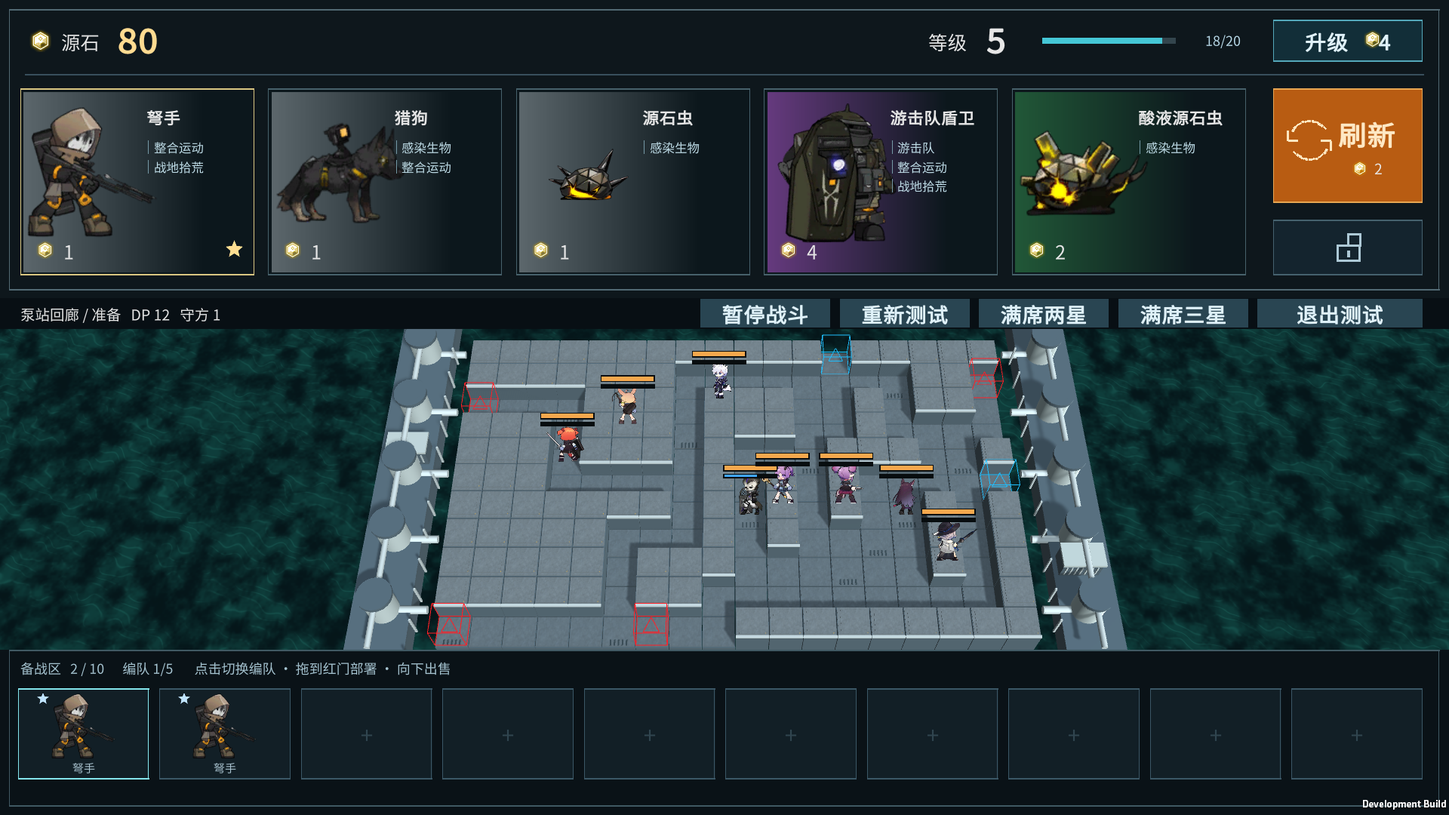
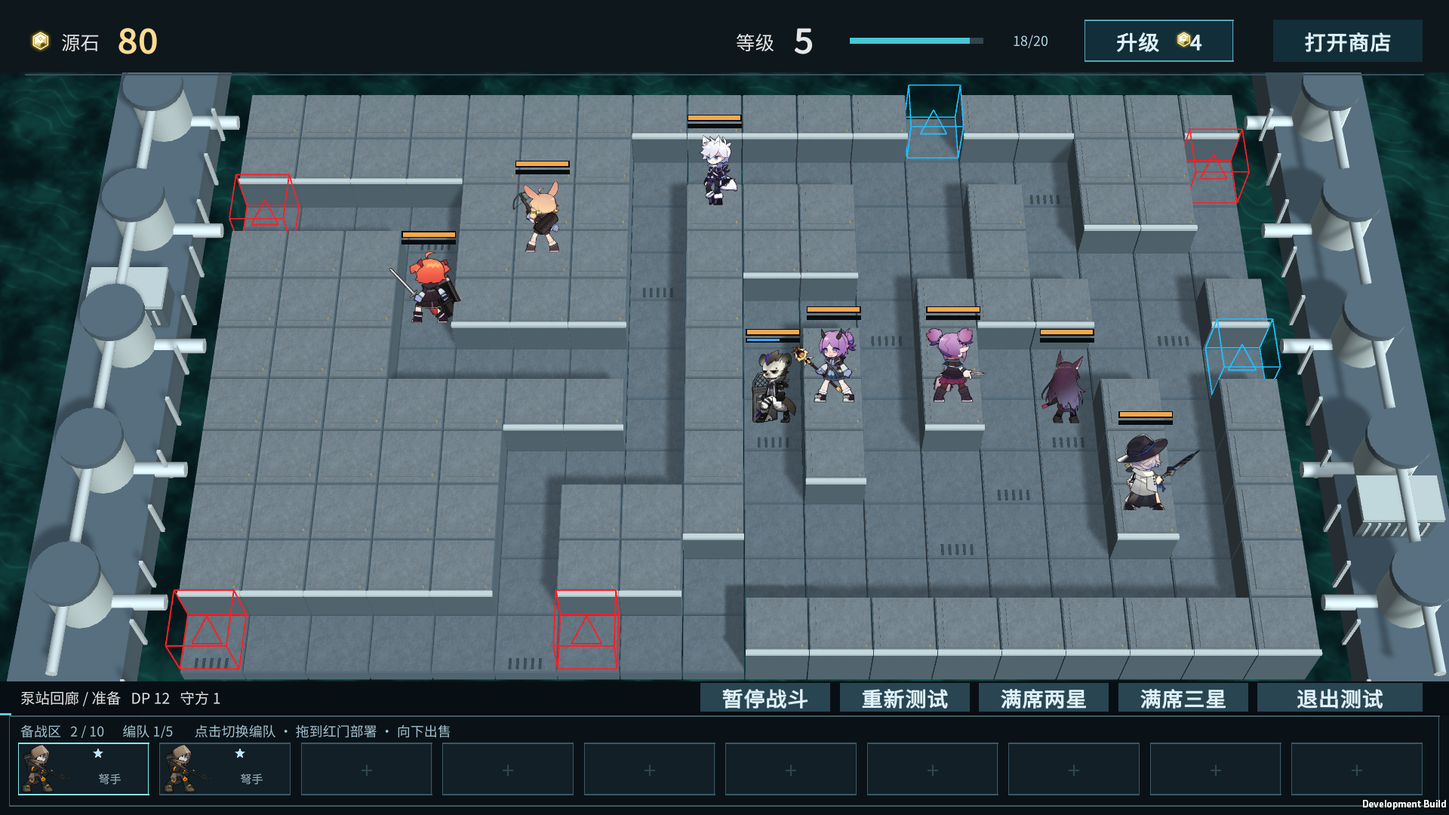
Make shop an overlay and flatten bench around a full-height map

diff --git a/Assets/_Game/Runtime/ShopMapTrial.cs b/Assets/_Game/Runtime/ShopMapTrial.cs
@@ -21,15 +21,23 @@ namespace YesterdayConvoy
         string shopPromotionId,shopMessage;
         Vector2 shopDragStart,shopPointer;
         float shopPromotionAt=-100,shopMessageUntil,shopRefreshAt=-100,shopUpgradeAt=-100;
-        bool shopMoving;
+        bool shopMoving,shopVisible;
         Texture2D shopCoin,shopStar,shopFade;
         public bool ShopTrialActive=>shop!=null;
         public ShopTrialModel Shop=>shop;
         public string ShopFeedback=>shopMessage;
-        public static Rect ShopBattlefieldRect=>new Rect(0,290,1280,284);
-        public static Rect ShopSellRect=>new Rect(16,672,1248,42);
+        public bool ShopVisible=>shopVisible;
+        public static Rect ShopBattlefieldRect=>new Rect(0,64,1280,538);
+        public static Rect ShopPanelRect=>new Rect(0,64,1280,199);
+        public static Rect ShopSellRect=>new Rect(16,688,1248,30);
         public static Rect ShopOfferRect(int i)=>new Rect(18+i*219,78,207,165);
-        public static Rect ShopBenchRect(int i)=>new Rect(16+i*125,608,116,80);
+        public static Rect ShopBenchRect(int i)=>new Rect(16+i*125,656,116,46);
+        public bool ShopMapPointAvailable(Vector2 point)=>ShopBattlefieldRect.Contains(point)&&(!shopVisible||!ShopPanelRect.Contains(point));
+        public void SetShopVisible(bool visible)
+        {
+            if(shop==null)return;
+            CancelShopDrag();shopVisible=visible;
+        }
 
         public void EnterShopTrial(int preset=0)
         {
@@ -48,7 +56,7 @@ namespace YesterdayConvoy
             string[] offerIds={"CARD_M08","CARD_M02",OriginalSlugArt.CardId,"CARD_M18","CARD_M05"};
             shop.Preset(pieces,offerIds.Where(shopDefinitions.ContainsKey),preset==2?7:5,preset==2?46:18);
             shopLineup.Clear();shopDeck.Clear();shopLineup.Add("CARD_M08");
-            shopDrag=-1;shopMoving=false;shopPending=-1;shopPromotionAt=-100;
+            shopDrag=-1;shopMoving=false;shopPending=-1;shopPromotionAt=-100;shopVisible=preset>0;
             if(shopMapCopy!=null)Destroy(shopMapCopy);
             shopMapCopy=Instantiate(Resources.Load<DefenderTrialDefinition>("MapTrials/city"));
             shopMapCopy.mapTitle="泵站回廊 · 商店试玩";
@@ -66,7 +74,7 @@ namespace YesterdayConvoy
             EnterDefense(shopMapCopy);
             shopMapCameraPosition=Camera.main.transform.position;
             SyncShopDeck();
-            ShopNotice(preset==0?"点击商店招募；备战棋子拖到红门部署，向下拖出售":"满席测试：购买第一张弩手，确认后合成并腾出空位");
+            ShopNotice(preset==0?"Tab 打开商店；备战棋子拖到红门部署，向下拖出售":"满席测试：购买第一张弩手，确认后合成并腾出空位");
         }
         void SyncShopDeck(bool autoFill=true)
         {
@@ -78,7 +86,7 @@ namespace YesterdayConvoy
             var effective=shopDeck.Count>0?shopDeck:new List<ManualBattleDefinition>{shopDefinitions["CARD_M08"]};
             defenderTrial.battle=effective[0];defenderTrial.rosterCards=effective.Skip(1).ToArray();definition=effective[0];
             ClearViews();Battle=CreateBattle();selectedRosterIndex=0;Selected=false;CancelInteraction();EnableCombatView();
-            Camera.main.rect=new Rect(0,.20f,1,.3972f);
+            Camera.main.rect=new Rect(0,118/720f,1,538/720f);
             FrameShopMap();
         }
         IEnumerable<Vector3> ShopMapPlayablePoints()
@@ -135,14 +143,14 @@ namespace YesterdayConvoy
             if(type==EventType.MouseDown&&button==0)
             {
                 for(int i=0;i<shop.Bench.Count;i++)if(ShopBenchRect(i).Contains(point)){shopDrag=shop.Bench[i].Instance;shopDragStart=point;shopMoving=false;return true;}
-                if(ShopBattlefieldRect.Contains(point))ProcessPointerDown(ScreenPosition(point));
+                if(ShopMapPointAvailable(point))ProcessPointerDown(ScreenPosition(point));
             }
-            if(type==EventType.MouseDrag&&shopDrag>=0){shopMoving|=(point-shopDragStart).magnitude>8;return true;}
+            if(type==EventType.MouseDrag&&shopDrag>=0){shopMoving|=(point-shopDragStart).magnitude>8;if(shopMoving)shopVisible=false;return true;}
             if(type!=EventType.MouseUp||button!=0||shopDrag<0)return false;
             int instance=shopDrag;bool moved=shopMoving;shopDrag=-1;shopMoving=false;
             var piece=shop.Bench.FirstOrDefault(p=>p.Instance==instance);if(piece==null)return true;
-            if(moved&&ShopSellRect.Contains(point)&&point.y>shopDragStart.y+22){SellShopCard(instance);return true;}
-            if(moved&&ShopBattlefieldRect.Contains(point))
+            if(moved&&ShopSellRect.Contains(point)&&point.y>shopDragStart.y+12){SellShopCard(instance);return true;}
+            if(moved&&ShopMapPointAvailable(point))
             {
                 int index=shopLineup.IndexOf(piece.Id);
                 if(index<0){ShopNotice("编队位已满：点击备战棋子调整编队，或先升级");return true;}
@@ -171,18 +179,30 @@ namespace YesterdayConvoy
             var shopButton=new GUIStyle(buttonStyle);
             foreach(var state in new[]{shopButton.normal,shopButton.hover,shopButton.active,shopButton.focused})state.textColor=new Color(.88f,.95f,.98f);
             bool prep=Battle.Phase==BattlePhase.Ready&&shopPending<0;
-            Fill(new Rect(0,0,1280,263),new Color(.055f,.09f,.11f,.99f));ShopBorder(new Rect(8,8,1264,248),new Color(.32f,.41f,.45f),1);
+            DrawShopDefenderBars();
+            foreach(var unit in Battle.Units)
+            {
+                if(!unit.Active)continue;Vector2 health=GUIPosition(Camera.main.WorldToScreenPoint(unit.Motion.Position+Camera.main.transform.up*UnitVisualHeight(unit)));
+                Fill(new Rect(health.x-26,health.y,52,5),new Color(.03f,.05f,.06f));Fill(new Rect(health.x-25,health.y+1,50*unit.Health/unit.MaxHealth,3),new Color(.4f,.9f,.55f));
+            }
+            Fill(new Rect(0,0,1280,64),new Color(.055f,.09f,.11f,.97f));
             Fill(new Rect(22,65,1236,1),new Color(.22f,.31f,.36f));
             GUI.DrawTexture(new Rect(25,25,22,22),shopCoin,ScaleMode.ScaleToFit,true);
             GUI.Label(new Rect(54,17,58,38),"源石",label);
             GUI.Label(new Rect(105,12,170,44),shop.Gold.ToString(),new GUIStyle(title){fontSize=29,normal={textColor=new Color(1,.86f,.57f)}});
-            GUI.Label(new Rect(820,17,55,38),"等级",label);GUI.Label(new Rect(872,12,50,44),shop.Level.ToString(),new GUIStyle(title){fontSize=29});
-            Fill(new Rect(921,33,118,5),new Color(.20f,.27f,.30f));Fill(new Rect(921,33,118*(shop.Level==10?1:(float)shop.XP/ShopTrialModel.Experience[shop.Level]),5),new Color(.27f,.78f,.84f));
-            GUI.Label(new Rect(1048,18,65,34),shop.Level==10?"MAX":$"{shop.XP}/{ShopTrialModel.Experience[shop.Level]}",new GUIStyle(center){fontSize=12,normal={textColor=new Color(.72f,.85f,.91f)}});
+            GUI.Label(new Rect(650,17,55,38),"等级",label);GUI.Label(new Rect(702,12,50,44),shop.Level.ToString(),new GUIStyle(title){fontSize=29});
+            Fill(new Rect(751,33,118,5),new Color(.20f,.27f,.30f));Fill(new Rect(751,33,118*(shop.Level==10?1:(float)shop.XP/ShopTrialModel.Experience[shop.Level]),5),new Color(.27f,.78f,.84f));
+            GUI.Label(new Rect(878,18,65,34),shop.Level==10?"MAX":$"{shop.XP}/{ShopTrialModel.Experience[shop.Level]}",new GUIStyle(center){fontSize=12,normal={textColor=new Color(.72f,.85f,.91f)}});
             GUI.enabled=prep;
             GUI.backgroundColor=new Color(.07f,.18f,.22f);
-            if(GUI.Button(new Rect(1125,17,132,37),"升级     4",shopButton)){var r=shop.Upgrade();if(r.Success){shopUpgradeAt=Time.unscaledTime;SyncShopDeck();}ShopNotice(r.Message);}
-            ShopBorder(new Rect(1125,17,132,37),new Color(.33f,.66f,.73f),1);GUI.DrawTexture(new Rect(1204,26,18,18),shopCoin,ScaleMode.ScaleToFit,true);
+            if(GUI.Button(new Rect(958,17,132,37),"升级     4",shopButton)){var r=shop.Upgrade();if(r.Success){shopUpgradeAt=Time.unscaledTime;SyncShopDeck();}ShopNotice(r.Message);}
+            ShopBorder(new Rect(958,17,132,37),new Color(.33f,.66f,.73f),1);GUI.DrawTexture(new Rect(1037,26,18,18),shopCoin,ScaleMode.ScaleToFit,true);
+            GUI.enabled=shopPending<0;
+            if(GUI.Button(new Rect(1125,17,132,37),new GUIContent(shopVisible?"收起商店":"打开商店","Tab 切换商店"),shopButton))SetShopVisible(!shopVisible);
+            if(shopVisible)
+            {
+            Fill(ShopPanelRect,new Color(.055f,.09f,.11f,.96f));ShopBorder(new Rect(8,65,1264,191),new Color(.32f,.41f,.45f),1);
+            GUI.enabled=prep;
             var refreshRect=new Rect(1125,78,132,101);GUI.backgroundColor=new Color(.72f,.36f,.07f);
             if(GUI.Button(refreshRect,GUIContent.none,shopButton)){var r=shop.Refresh();if(r.Success)shopRefreshAt=Time.unscaledTime;ShopNotice(r.Message);}
             ShopBorder(refreshRect,new Color(.91f,.65f,.32f),1);DrawShopRefreshIcon(new Vector2(1157,124),new Color(1,.90f,.75f));
@@ -206,17 +226,20 @@ namespace YesterdayConvoy
                 GUI.enabled=prep&&shop.Gold>=role.Cost&&shopPending<0;
                 if(GUI.Button(r,GUIContent.none,GUIStyle.none))PurchaseShopCard(i);GUI.enabled=shopPending<0;
             }
-            Fill(new Rect(0,263,1280,27),new Color(.03f,.06f,.08f,.94f));
-            GUI.Label(new Rect(18,263,550,27),$"泵站回廊 / {(Battle.Phase==BattlePhase.Ready?"准备":"战斗中 · 商店锁定")}   DP {Battle.DP}   守方 {Battle.Defense}",new GUIStyle(label){fontSize=13});
-            if(GUI.Button(new Rect(619,264,115,25),Battle.IsPaused?"继续战斗":"暂停战斗",shopButton)&&Battle.Phase==BattlePhase.Running)Battle.SetPaused(!Battle.IsPaused);
-            if(GUI.Button(new Rect(742,264,115,25),"重新测试",shopButton))EnterShopTrial();
+            }
+            GUI.enabled=shopPending<0;
+            GUI.backgroundColor=new Color(.16f,.27f,.32f);
+            Fill(new Rect(0,602,1280,28),new Color(.03f,.06f,.08f,.94f));
+            GUI.Label(new Rect(18,602,550,27),$"泵站回廊 / {(Battle.Phase==BattlePhase.Ready?"准备":"战斗中 · 商店锁定")}   DP {Battle.DP}   守方 {Battle.Defense}",new GUIStyle(label){fontSize=13});
+            if(GUI.Button(new Rect(619,603,115,25),Battle.IsPaused?"继续战斗":"暂停战斗",shopButton)&&Battle.Phase==BattlePhase.Running)Battle.SetPaused(!Battle.IsPaused);
+            if(GUI.Button(new Rect(742,603,115,25),"重新测试",shopButton))EnterShopTrial();
             GUI.enabled=prep;
-            if(GUI.Button(new Rect(865,264,115,25),"满席两星",shopButton))EnterShopTrial(1);
-            if(GUI.Button(new Rect(988,264,115,25),"满席三星",shopButton))EnterShopTrial(2);GUI.enabled=shopPending<0;
-            if(GUI.Button(new Rect(1111,264,146,25),"退出测试",shopButton)){LeaveShopTrial();GUI.matrix=previous;GUI.color=old;GUI.backgroundColor=background;return;}GUI.enabled=true;
-            Fill(new Rect(0,574,1280,146),new Color(.04f,.07f,.09f,.98f));
-            ShopBorder(new Rect(8,574,1264,138),new Color(.25f,.35f,.39f),1);
-            GUI.Label(new Rect(18,578,1240,26),$"备战区   {shop.Bench.Count} / 10      编队 {shopLineup.Count}/{shop.Level}       点击切换编队 · 拖到红门部署 · 向下出售",new GUIStyle(smallStyle){fontSize=12,normal={textColor=new Color(.65f,.77f,.82f)}});
+            if(GUI.Button(new Rect(865,603,115,25),"满席两星",shopButton))EnterShopTrial(1);
+            if(GUI.Button(new Rect(988,603,115,25),"满席三星",shopButton))EnterShopTrial(2);GUI.enabled=shopPending<0;
+            if(GUI.Button(new Rect(1111,603,146,25),"退出测试",shopButton)){LeaveShopTrial();GUI.matrix=previous;GUI.color=old;GUI.backgroundColor=background;return;}GUI.enabled=true;
+            Fill(new Rect(0,632,1280,88),new Color(.04f,.07f,.09f,.98f));
+            ShopBorder(new Rect(8,632,1264,80),new Color(.25f,.35f,.39f),1);
+            GUI.Label(new Rect(18,633,1240,21),$"备战区   {shop.Bench.Count} / 10      编队 {shopLineup.Count}/{shop.Level}       点击切换编队 · 拖到红门部署 · 向下出售",new GUIStyle(smallStyle){fontSize=12,normal={textColor=new Color(.65f,.77f,.82f)}});
             for(int i=0;i<10;i++)
             {
                 var r=ShopBenchRect(i);Fill(r,new Color(.07f,.12f,.15f));ShopBorder(r,new Color(.23f,.34f,.40f),1);
@@ -224,22 +247,16 @@ namespace YesterdayConvoy
                 var p=shop.Bench[i];if(p.Star>1)Fill(new Rect(r.x+1,r.y+1,r.width-2,r.height-2),p.Star==3?new Color(.28f,.24f,.15f):new Color(.17f,.23f,.28f));
                 bool active=shopLineup.Contains(p.Id)&&shop.Bench.Where(b=>b.Id==p.Id).OrderByDescending(b=>b.Star).ThenBy(b=>b.Instance).First().Instance==p.Instance;
                 if(active||p.Star>1)ShopBorder(r,active?new Color(.52f,.90f,.93f):p.Star==3?new Color(.89f,.74f,.38f):new Color(.66f,.72f,.81f),1);
-                DrawTestPortrait(new Rect(r.x+6,r.y+4,104,59),OriginalTalulahArt.CardPortrait(shopDefinitions[p.Id].Card));
-                DrawShopStars(new Rect(r.x+4,r.y+3,36,12),p.Star,p.Star==3?new Color(1,.89f,.61f):new Color(.75f,.89f,1));
-                GUI.Label(new Rect(r.x+2,r.y+60,112,19),shop.Definition(p.Id).Name,new GUIStyle(center){fontSize=10,normal={textColor=new Color(.67f,.77f,.82f)}});
+                DrawTestPortrait(new Rect(r.x+2,r.y+1,46,44),OriginalTalulahArt.CardPortrait(shopDefinitions[p.Id].Card));
+                DrawShopStars(new Rect(r.x+53,r.y+4,36,11),p.Star,p.Star==3?new Color(1,.89f,.61f):new Color(.75f,.89f,1));
+                GUI.Label(new Rect(r.x+49,r.y+19,65,24),shop.Definition(p.Id).Name,new GUIStyle(center){fontSize=10,normal={textColor=new Color(.67f,.77f,.82f)}});
             }
             if(shopDrag>=0&&shopMoving)
             {
-                var q=shop.Quote(shopDrag);bool hit=ShopSellRect.Contains(point)&&point.y>shopDragStart.y+22;
+                var q=shop.Quote(shopDrag);bool hit=ShopSellRect.Contains(point)&&point.y>shopDragStart.y+12;
                 Fill(ShopSellRect,hit?new Color(.42f,.29f,.12f,.98f):new Color(.12f,.17f,.20f,.98f));ShopBorder(ShopSellRect,new Color(.85f,.69f,.36f),2);
                 GUI.Label(ShopSellRect,$"{(hit?"松开出售":"向下拖动出售")}   {q.Message} · {q.FinalStar}星   +{q.Value} 源石",center);
                 if(q.Success)DrawTestPortrait(new Rect(point.x-40,point.y-55,80,80),OriginalTalulahArt.CardPortrait(shopDefinitions[q.Id].Card));
-            }
-            DrawShopDefenderBars();
-            foreach(var unit in Battle.Units)
-            {
-                if(!unit.Active)continue;Vector2 health=GUIPosition(Camera.main.WorldToScreenPoint(unit.Motion.Position+Camera.main.transform.up*UnitVisualHeight(unit)));
-                Fill(new Rect(health.x-26,health.y,52,5),new Color(.03f,.05f,.06f));Fill(new Rect(health.x-25,health.y+1,50*unit.Health/unit.MaxHealth,3),new Color(.4f,.9f,.55f));
             }
             if(Battle.Phase==BattlePhase.Won||Battle.Phase==BattlePhase.Lost)GUI.Label(new Rect(450,450,380,45),Battle.Phase==BattlePhase.Won?"突破成功 · 可重新测试":"作战结束 · 可重新测试",title);
             DrawShopPromotion();

diff --git a/Assets/_Game/Runtime/ShopMapEvidence.cs b/Assets/_Game/Runtime/ShopMapEvidence.cs
@@ -16,10 +16,16 @@ namespace YesterdayConvoy
             Application.runInBackground=true;Time.timeScale=0;
             string[] args=Environment.GetCommandLineArgs();int arg=Array.IndexOf(args,"-demoEvidenceDir");string dir=arg>=0&&arg+1<args.Length?args[arg+1]:null;
             yield return null;yield return null;
-            bool layout=ShopTrialActive&&TacticalMapId=="city"&&ShopOfferRect(0).yMax<ShopBenchRect(0).y&&Camera.main.rect.height<.6f;
+            bool layout=ShopTrialActive&&TacticalMapId=="city"&&ShopOfferRect(0).yMax<ShopBenchRect(0).y&&Camera.main.rect.height>.7f;
             float magnification=Mathf.Tan(shopPreviousFieldOfView*.5f*Mathf.Deg2Rad)/Mathf.Tan(Camera.main.fieldOfView*.5f*Mathf.Deg2Rad);
-            bool framing=magnification>1.2f&&ShopMapPlayablePoints().All(p=>ShopBattlefieldRect.Contains(GUIPosition(Camera.main.WorldToScreenPoint(p))));
+            bool framing=ShopMapPlayablePoints().All(p=>ShopBattlefieldRect.Contains(GUIPosition(Camera.main.WorldToScreenPoint(p))));
+            bool flatBench=ShopBenchRect(0).height<60;
             yield return InteractionFrame(dir,"shop-map-ready");
+            var viewport=Camera.main.rect;float fov=Camera.main.fieldOfView;var position=Camera.main.transform.position;
+            int initialGold=Shop.Gold;var initialOffers=Shop.Offers.ToArray();
+            SetShopVisible(true);bool covered=!ShopMapPointAvailable(ShopOfferRect(0).center);
+            yield return InteractionFrame(dir,"shop-map-shop-open");SetShopVisible(false);
+            bool overlay=covered&&!ShopVisible&&ShopMapPointAvailable(ShopOfferRect(0).center)&&Camera.main.rect==viewport&&Camera.main.fieldOfView==fov&&Camera.main.transform.position==position&&Shop.Gold==initialGold&&Shop.Offers.SequenceEqual(initialOffers);
             EnterShopTrial(1);yield return null;yield return null;
             int gold=Shop.Gold;var denied=PurchaseShopCard(1);bool fullReject=!denied.Success&&!denied.NeedsConfirmation&&Shop.Gold==gold&&Shop.Bench.Count==10;
             var pending=PurchaseShopCard(0);bool fullConfirm=pending.NeedsConfirmation&&Shop.Gold==gold&&Shop.Bench.Count==10;
@@ -36,8 +42,10 @@ namespace YesterdayConvoy
             var origin=ShopBenchRect(0).center;
             ProcessShopPointer(EventType.MouseDown,origin);ProcessShopPointer(EventType.MouseDrag,ShopSellRect.center);ProcessShopPointer(EventType.MouseUp,origin);
             bool cancelSafe=Shop.Gold==gold-1&&Shop.Bench.Count==7;
-            ProcessShopPointer(EventType.MouseDown,origin);ProcessShopPointer(EventType.MouseDrag,ShopSellRect.center);
-            yield return InteractionFrame(dir,"shop-map-sell-preview");ProcessShopPointer(EventType.MouseUp,ShopSellRect.center);
+            origin=new Vector2(ShopBenchRect(0).center.x,ShopBenchRect(0).yMax-2);
+            Vector2 bottomSale=new Vector2(ShopSellRect.center.x,ShopSellRect.yMax-2);
+            ProcessShopPointer(EventType.MouseDown,origin);ProcessShopPointer(EventType.MouseDrag,bottomSale);
+            yield return InteractionFrame(dir,"shop-map-sell-preview");ProcessShopPointer(EventType.MouseUp,bottomSale);
             bool sale=Shop.Gold==gold+7&&Shop.Available("CARD_M08")==9&&!Shop.Bench.Any(p=>p.Instance==instance);
             EnterShopTrial();yield return null;yield return null;
             var offers=Shop.Offers.ToArray();var upgrade=Shop.Upgrade();SyncShopDeck();bool level=upgrade.Success&&Shop.Level==6&&Shop.XP==2&&offers.SequenceEqual(Shop.Offers);
@@ -51,8 +59,8 @@ namespace YesterdayConvoy
             bool simulation=Battle.Clock>0&&Battle.Units.Count==1&&Battle.Units[0].Motion.Position!=Battle.Entry;
             Shop.Validate();LeaveShopTrial();yield return null;yield return null;
             bool exit=TestSelectionOpen&&!ShopTrialActive&&!TacticalMapActive&&Camera.main.rect==new Rect(0,0,1,1);
-            bool pass=layout&&framing&&fullReject&&fullConfirm&&fullTwo&&fullThree&&cancelSafe&&sale&&level&&locked&&refresh&&gateVisible&&deployed&&frozen&&simulation&&exit;
-            Debug.Log($"SHOP_MAP_CHECK: layout={layout}; framing={framing}; magnification={magnification:0.00}; fullReject={fullReject}; fullConfirm={fullConfirm}; fullTwo={fullTwo}; fullThree={fullThree}; cancel={cancelSafe}; sale={sale}; level={level}; lock={locked}; refresh={refresh}; gateVisible={gateVisible}; deployed={deployed}; frozen={frozen}; simulation={simulation}; exit={exit}.");
+            bool pass=layout&&framing&&overlay&&flatBench&&fullReject&&fullConfirm&&fullTwo&&fullThree&&cancelSafe&&sale&&level&&locked&&refresh&&gateVisible&&deployed&&frozen&&simulation&&exit;
+            Debug.Log($"SHOP_MAP_CHECK: layout={layout}; framing={framing}; overlay={overlay}; flatBench={flatBench}; magnification={magnification:0.00}; fullReject={fullReject}; fullConfirm={fullConfirm}; fullTwo={fullTwo}; fullThree={fullThree}; cancel={cancelSafe}; sale={sale}; level={level}; lock={locked}; refresh={refresh}; gateVisible={gateVisible}; deployed={deployed}; frozen={frozen}; simulation={simulation}; exit={exit}.");
             Time.timeScale=1;Application.Quit(pass?0:1);
         }
     }

diff --git a/Assets/_Game/Tests/PlayMode/ShopMapSceneTests.cs b/Assets/_Game/Tests/PlayMode/ShopMapSceneTests.cs
@@ -9,6 +9,24 @@ namespace YesterdayConvoy.Tests
 {
     public sealed class ShopMapSceneTests
     {
+        [UnityTest]public IEnumerator ShopOverlayKeepsCameraAndInventoryStableAndBlocksCoveredMap()
+        {
+            yield return SceneManager.LoadSceneAsync("InitialDemo");yield return null;
+            var c=Object.FindAnyObjectByType<ManualBattleController>();c.EnterShopTrial();yield return null;yield return null;
+            Assert.That(c.ShopVisible,Is.False);Assert.That(ManualBattleController.ShopBenchRect(0).height,Is.LessThan(60));
+            Assert.That(ManualBattleController.ShopBattlefieldRect.height,Is.GreaterThan(500));
+            var viewport=Camera.main.rect;float fov=Camera.main.fieldOfView;var position=Camera.main.transform.position;
+            var offers=c.Shop.Offers.ToArray();int gold=c.Shop.Gold,count=c.Shop.Bench.Count;
+            Vector2 covered=ManualBattleController.ShopOfferRect(0).center;Assert.That(c.ShopMapPointAvailable(covered),Is.True);
+            c.SetShopVisible(true);Assert.That(c.ShopVisible,Is.True);Assert.That(c.ShopMapPointAvailable(covered),Is.False);
+            c.ProcessShopPointer(EventType.MouseDown,covered);Assert.That(c.Battle.Units.Count,Is.Zero);
+            c.SetShopVisible(false);Assert.That(c.ShopMapPointAvailable(covered),Is.True);
+            Assert.That(Camera.main.rect,Is.EqualTo(viewport));Assert.That(Camera.main.fieldOfView,Is.EqualTo(fov));Assert.That(Camera.main.transform.position,Is.EqualTo(position));
+            Assert.That(c.Shop.Gold,Is.EqualTo(gold));Assert.That(c.Shop.Bench.Count,Is.EqualTo(count));CollectionAssert.AreEqual(offers,c.Shop.Offers);
+            c.EnterShopTrial(1);Assert.That(c.PurchaseShopCard(0).NeedsConfirmation,Is.True);gold=c.Shop.Gold;c.SetShopVisible(false);
+            Assert.That(c.Shop.Gold,Is.EqualTo(gold));Assert.That(c.Shop.Bench.Count,Is.EqualTo(10));
+            c.LeaveShopTrial();yield return null;yield return null;
+        }
         [UnityTest]public IEnumerator NewlyPurchasedDogDeploysWithItsOwnCardAndProfile()
         {
             yield return SceneManager.LoadSceneAsync("InitialDemo");yield return null;
@@ -30,7 +48,7 @@ namespace YesterdayConvoy.Tests
             {
                 c.EnterShopTrial(preset);yield return null;yield return null;
                 float framedFov=Camera.main.fieldOfView;
-                Assert.That(framedFov,Is.LessThan(originalFov/1.2f),"The shop map must be visibly larger than the old camera framing.");
+                Assert.That(Camera.main.rect.height,Is.GreaterThan(.7f),"The map must occupy most of the screen, independent of the overlay.");
                 foreach(var lane in original.lanes)foreach(var point in lane.points)
                 {
                     Vector2 screen=Camera.main.WorldToScreenPoint(point),gui=new Vector2(screen.x*1280/Screen.width,720-screen.y*720/Screen.height);
@@ -51,10 +69,12 @@ namespace YesterdayConvoy.Tests
             yield return SceneManager.LoadSceneAsync("InitialDemo");yield return null;
             var c=Object.FindAnyObjectByType<ManualBattleController>();c.EnterShopTrial();yield return null;yield return null;
             c.PurchaseShopCard(0);Assert.That(c.Shop.Bench.Single().Star,Is.EqualTo(2));
+            c.SetShopVisible(true);
             Vector2 screen=Camera.main.WorldToScreenPoint(c.Battle.Entry),point=new Vector2(screen.x*1280/Screen.width,720-screen.y*720/Screen.height);
             Assert.That(ManualBattleController.ShopBattlefieldRect.Contains(point),Is.True,"The first red gate must remain inside the playable viewport.");
             var start=ManualBattleController.ShopBenchRect(0).center;
             c.ProcessShopPointer(EventType.MouseDown,start);c.ProcessShopPointer(EventType.MouseDrag,point);c.ProcessShopPointer(EventType.MouseUp,point);
+            Assert.That(c.ShopVisible,Is.False,"Dragging a bench piece should uncover the map without moving the camera.");
             Assert.That(c.Battle.Units.Count,Is.EqualTo(1),c.ShopFeedback+" / "+c.Feedback+" / phase="+c.Battle.Phase);Assert.That(c.Battle.Units[0].CardId,Is.EqualTo("CARD_M08"));
             int gold=c.Shop.Gold;Assert.That(c.PurchaseShopCard(0).Success,Is.False);Assert.That(c.SellShopCard(c.Shop.Bench[0].Instance).Success,Is.False);Assert.That(c.Shop.Gold,Is.EqualTo(gold));
             c.LeaveShopTrial();yield return null;yield return null;

diff --git a/Assets/_Game/Runtime/ManualBattleInteraction.cs b/Assets/_Game/Runtime/ManualBattleInteraction.cs
@@ -18,7 +18,7 @@ namespace YesterdayConvoy
 
         private static Vector2 GUIPosition(Vector2 screen) => new Vector2(screen.x*1280/Screen.width,720-screen.y*720/Screen.height);
         public static Vector2 ScreenPosition(Vector2 gui) => new Vector2(gui.x*Screen.width/1280,(720-gui.y)*Screen.height/720);
-        private bool IsBattlefield(Vector2 screen) => (ShopTrialActive?ShopBattlefieldRect:new Rect(0,66,1280,486)).Contains(GUIPosition(screen));
+        private bool IsBattlefield(Vector2 screen) => ShopTrialActive?ShopMapPointAvailable(GUIPosition(screen)):new Rect(0,66,1280,486).Contains(GUIPosition(screen));
         private bool PointerGround(Vector2 screen,out Vector3 point)
         {
             Ray ray=Camera.main.ScreenPointToRay(screen);

diff --git a/Assets/_Game/Runtime/ShopMapBootstrap.cs b/Assets/_Game/Runtime/ShopMapBootstrap.cs
@@ -14,7 +14,12 @@ namespace YesterdayConvoy
             if(Array.IndexOf(Environment.GetCommandLineArgs(),"-shopMapSmokeTest")>=0)
                 yield return controller.VerifyShopMap();
         }
-        void Update(){if(controller!=null&&Input.GetKeyDown(KeyCode.Escape))controller.CancelShopDrag();}
+        void Update()
+        {
+            if(controller==null||!controller.ShopTrialActive)return;
+            if(Input.GetKeyDown(KeyCode.Tab))controller.SetShopVisible(!controller.ShopVisible);
+            if(Input.GetKeyDown(KeyCode.Escape)){controller.CancelShopDrag();controller.SetShopVisible(false);}
+        }
         void OnApplicationFocus(bool focused){if(!focused&&controller!=null)controller.CancelShopDrag();}
     }
 }

diff --git a/docs/SHOP_MAP_TRIAL.md b/docs/SHOP_MAP_TRIAL.md
@@ -1,50 +1,41 @@
-# 商店与泵站回廊试玩
+# 大地图、可开关商店与扁平备战席
 
 2026-10-30 · 霍利屹 · [任务 #48](https://github.com/Peanora/YesterdayConvoy/issues/48) · [PR #47](https://github.com/Peanora/YesterdayConvoy/pull/47)
 
-保留已确认的卡片、羁绊标签、右侧刷新/锁定和备战席设计，仅调为上方五格商店、下方10格备战席，中间是已有“泵站回廊”地图。可以实际招募、升级、刷新、升星、出售，再把备战角色拖到红门进入战斗。独立场景不改原主菜单和已有地图资源。
+最新布局：地图占约75%屏幕高度，10格备战席压成下沿横向短卡槽。商店默认收起，展开后覆盖地图上方，不缩小或移动地图。保留已确认的卡片画面、羁绊标签、费用渐变色与右侧刷新/锁定排列，使用已有泵站回廊，地图格局和原俯视角度保持。
 
-镜头补充（同日）：中间地图放大1.4倍，按实际路线和守军头顶居中取景，保留原俯视角度、商店/备战席布局及1920×1080。红蓝门、全部路线与守军都在有效战斗区域内；购买/合成不叠加缩放，退出恢复原镜头。
+## 打开与操作
 
-## 怎样打开
+本机1920×1080试玩：`D:/游戏开发/YesterdayConvoy-ShopUI/Builds/ShopMap/YesterdayConvoy-Shop.exe`。保留完整ShopMap目录，不能只复制EXE。Unity 6000.6.5f1打开本分支的 `Assets/_Game/ShopTrials/ShopMap.unity` 点Play；重建Windows使用 `YesterdayConvoy.Editor.ShopMapTools.Build`，输出 `Builds/ShopMap`。
 
-- 本机 Windows：`D:/游戏开发/YesterdayConvoy-ShopUI/Builds/ShopMap/YesterdayConvoy-Shop.exe`。以1920×1080窗口运行。保留整个ShopMap目录，不能只复制EXE。
-- Unity：6000.6.5f1打开本分支工程，再打开 `Assets/_Game/ShopTrials/ShopMap.unity`，点Play。工程包含运行图片、图集和meta，不依赖本机其他工程。
-- 重建Windows：使用Unity命令入口执行 `YesterdayConvoy.Editor.ShopMapTools.Build`。输出 `Builds/ShopMap`，无需改EditorBuildSettings。
-- 浏览器展示版：[预览及历史说明](ui-previews/shop/README.md)。浏览器是38角色展示；Unity试玩是下面说明的10角色基础测试池。
+- 右上“打开商店/收起商店”或 **Tab** 切换；**Esc** 收起并取消拖动/待确认购买。开关不刷新、不扣款、不移动镜头，不重置棋子或战斗。商店覆盖部分拦截地图点击；展开不自动暂停。
+- 点商店角色图片购买。默认已有两张一星弩手，买第三张合成两星；中央只展示最终晋升，连锁三星不先播两星。
+- 升级4源石换4XP，经验溢出保留；刷新2源石，锁店不刷新不扣费。羁绊目前是标签展示。
+- 下沿横向卡槽中，头像在左，星级和名字在右。点击切换编队；拖动时商店自动收起，再拖到红门部署，战斗自动开始。战斗后交易冻结，商店仍可开关查看。
+- 备战角色向下拖入最下沿出售区，出现报价后松手。拖回、区外松手、Esc、失焦均取消；卡槽底部也有足够向下拖动空间。轻点或抖动不出售。
+- “满席两星/满席三星”载入10格材料并展开商店。买第一张弩手先确认，取消保持状态，确认后分别剩9格/7格；第二张猎狗不能合成时拒绝且不扣钱。
+- “重新测试”回默认材料和收起状态；“退出测试”回原怪物菜单并恢复镜头视口/FOV。
 
-## 操作
+![收起商店的大地图](ui-previews/shop/shop-map-ready.png)
+![展开的覆盖式商店](ui-previews/shop/shop-map-shop-open.png)
+![最终三星晋升](ui-previews/shop/shop-map-three-star.png)
 
-1. 点上方角色图片购买，初始两张一星弩手，买第三张即合成两星。颜色显示费用，源石图标显示价格，锁形按钮锁店。
-2. 升级消耗4源石增加4XP；刷新消耗2源石。锁定不刷新、不收费。
-3. 备战席浅蓝框表示已加入编队。点击切换，种类上限等于等级；同种只加入一次，最高星那张显示编队框。
-4. 按住备战图片拖到地图红门，松手部署，战斗自动开始。战斗期间招募、升星、刷新、升级、出售冻结，仍可按原战斗部署次数继续下场编队角色。
-5. 准备时向下拖进屏幕最下沿出售区，显示报价，松开出售。拖回或区外松手取消，Esc和失焦也取消。售出1/2/3星返库1/3/9张，到账c/3c−1/9c−1。
-6. “满席两星”“满席三星”直接载入10格测试材料，点第一张弩手。先弹确认，取消保持源石和棋子不变；确认后分别剩9格/7格。点第二张猎狗则因不能合成被拒绝，不扣钱。
-7. “重新测试”回默认材料；“退出商店测试”回原怪物测试菜单，恢复原相机视口。
+## 比例、连接与范围
 
-中央晋升提示使用大尺寸图形星标、角色图、名称与成功文字，持续约2.6秒。连锁三星只显示最终三星一次。地图守军使用简洁血条和技力条，避免多行技能文字挡住棋盘。
+虚拟坐标1280×720：地图从y64到602，高538（74.7%）；备战带y632到720，高88，单卡高46。上一版备战带146、单卡80，现单卡高度减少42.5%，头像等比显示。1920×1080时地图实际高807像素。商店展开只增加上层绘制和输入遮挡，镜头始终一致，不能把之前的小地图FOV放大倍数当成当前屏幕占比。
 
-![地图准备画面](ui-previews/shop/shop-map-ready.png)
+布局参考方舟战斗画面的大地图与下沿部署条，参照[实机画面](https://note.com/grsn_note/n/n33f60d3ce1fa)；这不是逐像素复刻或原作UI提取。没有导入新的参考游戏UI贴图/动画，继续使用项目既有样式与素材。
 
-![满席三星晋升](ui-previews/shop/shop-map-three-star.png)
+`ShopTrialModel`计算交易；`ShopMapTrial`连接卡定义、编队、覆盖层与输入；`ShopMapBootstrap`负责独立入口及Tab/Esc。所有商店点击共用同一原子事务，覆盖区域使用与地图输入相同的可用区域判断。运行时克隆地图asset，不写回Resources。未修改InitialDemo、原地图配置、Prefab、Packages或ProjectSettings。
 
-## 具体范围
+仍是10种基础角色测试池（M02/M03/M05/M08、原生源石虫、M15～M19），非完整正式商店或羁绊章节。按角色种类编队，同种只加入一次；沿用原卡DP/生命/冷却/部署次数。星级影响库存、展示和出售，暂不增加战斗属性。未实现战后收入、通关XP、存档、完整高费卡池或复杂首领编队。售出1/2/3星到账c/3c−1/9c−1，返库1/3/9张，规则保持。
 
-基础测试池：M02猎狗、M03游击队猎犬、M05酸液源石虫、M08弩手、原生源石虫，以及M15/M16/M17/M18/M19。只开放已有多角色编队适配器兼容的10种角色。刷新按工程等级费用概率，再按当前测试池存在的费用重归一，缺少的高费角色不会凭空出现。这不是完整正式卡池或商店章节流程。
+## 实际验证与交付
 
-星级影响库存、展示和出售，暂不改变作者原有战斗属性。沿用原战斗卡配置的DP、生命、冷却和部署次数；未把每张备战卡变成独立战斗实体。编队按角色种类而非同种多份排布。本轮没有扩展复杂首领/被动角色的编队适配、羁绊属性、战后收入、通关经验、跨关存档或星级倍率平衡。
+4/4定向GPU PlayMode通过（play-overlay.xml）：覆盖层默认收起/开关、遮挡不穿透、钱/库存/镜头稳定、取消待确认满席购买、平坦备战比例、拖动自动收起、满席合成、购买不叠加镜头、全部路线/门可见、实际部署与退出恢复。之后仅把出售向下距离从22调至12虚拟像素，适配46像素卡槽，最终Player用卡槽底部起拖验证。
 
-`ShopTrialModel`独立计算原子交易；`ShopMapTrial`连接现有卡定义与编队、处理输入和绘制；`ShopMapBootstrap`只负责独立入口。地图定义在运行时克隆，未写回Resources。共享代码仅局部适配OnGUI入口、备战卡选择和地图点击区域，并将已兼容的M08加入基础角色白名单，保留复杂角色保护检查。未修改InitialDemo场景、原地图asset、Prefab、Packages或ProjectSettings。
+本轮最终构建、独立Player与18项布尔标志结果见[QA](QA.md)。本机证据目录 `D:/游戏开发/artifacts/shop-map/`：play-overlay.xml、build-overlay-final.log、player-overlay-final.log及player-overlay-final截图。原完整276 EditMode/74 PlayMode、Node7/7和浏览器离线检查是此前结果，未记成本轮重跑。浏览器目录保留v12固定上下布局作为历史展示，当前v13覆盖交互在Unity中实现。
 
-## 构建和验证
+未测第二台电脑、全新克隆构建、长时压力与人类数值平衡。本机通过不代表接收端已验收；接收者需按上述入口验证开关商店、招募/合成/出售/部署与退出。
 
-- 完整 EditMode 276/276、GPU PlayMode 74/74通过，无失败或跳过。其中新增5项交易逻辑、3项场景交互，覆盖满席两星/连锁三星原子确认、不合法购买不扣钱、出售返库只发生一次、经验溢出、锁定、原地图资源不变、弩手/新买猎狗实际使用自身卡配置部署，以及战斗冻结交易。
-- Windows构建通过，最终Unity报告1495925555字节、0错误（不是EXE单文件大小）。首轮受限环境许可证失败；正常Windows环境重试成功，没有改许可证或项目版本。
-- 最后按用户要求保留原设计：右侧刷新/锁定排列、渐变费用背景、羁绊标签和原备战样式，试玩分辨率1920×1080。恢复布局后3项地图交互复测通过（play-layout-final.xml），最终刷新图标缩放修正后重新构建并运行独立Player；完整276/74套件在显示修正前通过。地图放大后3/3场景交互通过（play-zoom.xml），最新Player全部16项布尔标志True、magnification=1.40，无捕获异常；再次核对真实地图、确认、满席两/三星、取消、出售、升级、锁店、刷新、红门可见、实际部署、冻结交易、6秒模拟和退出恢复。
-- 本机证据位于 `D:/游戏开发/artifacts/shop-map/`：edit-all.xml、play-all.xml、build-zoom.log、player-zoom.log及player-zoom截图。程序自动验证使用与GUI同一事务和指针处理函数；这不等于第二台电脑人类试玩。
-- Node 7/7及Chrome离线布局/满席/取消/晋升/底部出售通过；无页面脚本错误。
-
-未测第二台电脑、全新克隆重新构建、长时压力和人类手感平衡。不能把本机通过登记为接收端已验收。接收者需核对PR分支，打开上述独立场景或取得完整构建目录，按步骤1～7实际操作。
-
-源石运行图片 `Assets/StreamingAssets/ShopTrial/originium.png` 与meta随源码保存，原字节哈希和权利状态见[来源记录](ui-previews/shop/assets/originium-source.json)。角色复用已跟踪图片及图集，没有新增外部缺失包。原作素材权利仍按已有记录，不将作业用途登记成权利人授权。构建目录和本地日志不提交，不自动ZIP、Releases或合并main。
+角色图片/动画复用已跟踪资源及meta；源石运行图 `Assets/StreamingAssets/ShopTrial/originium.png` 的来源、哈希和真实权利状态见[记录](ui-previews/shop/assets/originium-source.json)。没有新增外部运行依赖。不自动合并main、ZIP或Releases，构建与日志不入Git。

diff --git a/docs/QA.md b/docs/QA.md
@@ -1,5 +1,13 @@
 # 验证证据与回归
 
+## 2026-10-30：覆盖式商店与扁平备战席
+
+[最新操作与范围](SHOP_MAP_TRIAL.md)。play-overlay.xml：4/4定向GPU PlayMode通过，覆盖默认收起、开关保留钱/库存/镜头、覆盖区不穿透、关闭待确认购买不扣款、拖动自动收起、扁平比例、全部路线/门、满席2/3星、实际部署、购买不叠加缩放及退出恢复。完整276/74未在本轮重跑。
+
+最后仅将出售向下距离22→12虚拟像素适配46像素卡槽，并把独立Player出售流程改为从卡槽底边起拖。build-overlay-final.log：Windows1495927470 bytes、0错误；player-overlay-final.log：layout/framing/overlay/flatBench/fullReject/fullConfirm/fullTwo/fullThree/cancel/sale/level/lock/refresh/gateVisible/deployed/frozen/simulation/exit全True，无捕获异常。18项为布尔标志，magnification是FOV诊断值，不作新屏幕比例指标。
+
+1920×1080实际收起/展开截图已查看：地图高807像素，备战带132像素、单卡69像素，商店上层盖住地图而不改变取景。最终截图保存docs/ui-previews/shop/shop-map-*.png。运行输入与自动验证共用事务和指针函数；没有声称完成第二台电脑或真实人类平衡验收。未改原场景/地图asset、Prefab、包或设置；本地.vscode保持未提交。
+
 ## 2026-10-30：商店地图与满备战席合成
 
 同日镜头补充：中间地图放大1.4倍并按有效路线/守军居中，商店、备战席、1920×1080和地图格局保持。3/3地图交互复测通过，验证所有路线/红门可见、购买不累积缩放、退出恢复视口和FOV；最新Windows1495925555 bytes、0错误，Player16项布尔标志全True、magnification=1.40，实际截图已复核。证据：play-zoom.xml、build-zoom.log、player-zoom.log；下文首版完整276/74结果不记为本次重跑。

diff --git a/docs/STATUS.md b/docs/STATUS.md
@@ -1,5 +1,11 @@
 # 当前工程状态
 
+## 2026-10-30：大地图、开关商店与扁平备战席
+
+按最新要求将地图改为屏幕主体（高74.7%），商店默认收起，右上按钮或Tab展开覆盖地图，Esc收起，镜头不随商店开关改变。单个备战卡槽从80压到46虚拟像素（低42.5%），头像/星级/名字横排；拖动棋子自动收起商店，下沿出售距离适配扁平卡槽。卡片样式、地图格局及1920×1080保留。入口与边界见[当前试玩指南](SHOP_MAP_TRIAL.md)，本机EXE路径不变。
+
+4/4地图GPU PlayMode通过，最后仅适配出售距离后重建Windows1495927470 bytes、0错误；独立Player18项布尔标志全True，覆盖开关不重置/不穿透、扁平布局、卡槽底边起拖出售、满席合成、部署和退出。实机收起/展开画面已查看；源代码/截图随PR #47更新。此前完整276/74与浏览器检查为历史结果，不记为本轮重跑；浏览器仍保留v12固定布局，最新v13交互在Unity。仍为10种基础角色，星级不改变战斗属性；无ZIP/Releases或自动合并main。
+
 ## 2026-10-30：商店上下布局与泵站回廊试玩
 
 同日镜头补充：中间地图放大1.4倍并按有效路线/守军居中，商店、备战席、1920×1080和地图格局保持。3/3地图交互复测通过，验证所有路线/红门可见、购买不累积缩放、退出恢复视口和FOV；最新Windows1495925555 bytes、0错误，Player16项布尔标志全True、magnification=1.40，实际截图已复核。证据：play-zoom.xml、build-zoom.log、player-zoom.log；下文首版完整276/74结果不记为本次重跑。

diff --git a/docs/ui-previews/shop/README.md b/docs/ui-previews/shop/README.md
@@ -2,6 +2,8 @@
 
 2026-10-30 · 霍利屹 · [任务 #41](https://github.com/Peanora/YesterdayConvoy/issues/41)、[地图接入 #48](https://github.com/Peanora/YesterdayConvoy/issues/48) · [PR #47](https://github.com/Peanora/YesterdayConvoy/pull/47)
 
+最新Unity试玩已改为大地图、可开关覆盖式商店和扁平备战席，按Tab展开/收起，见[操作说明](../../SHOP_MAP_TRIAL.md)。本目录浏览器保留v12固定上下布局作为历史展示，不冒充最新Unity交互。
+
 商店移到屏幕上方，10格备战席放在底部。购买直接点人物图片，费用用背景色区分，锁定使用锁形图案，角色下面显示羁绊。升星新增屏幕中央大星标、角色名与“晋升成功”；连锁三星只播最终三星，不先播一次两星。
 
 ![当前浏览器界面](preview.png)
